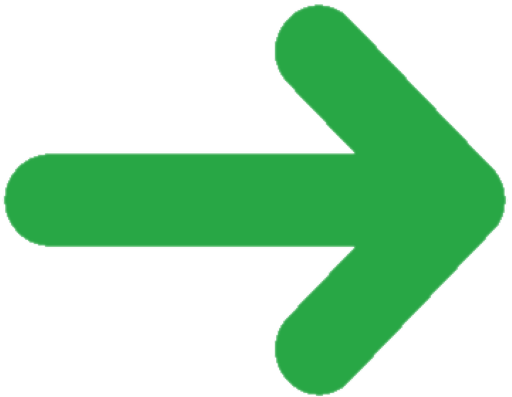
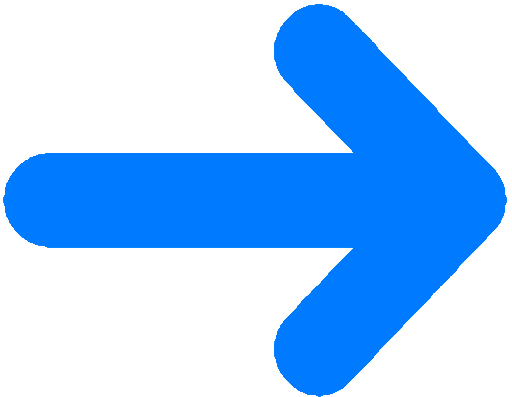
Version-1.5 Ajustes

diff --git a/ferramentas/ferramentas_p-05.html b/ferramentas/ferramentas_p-05.html
@@ -25,14 +25,14 @@
 		<div class="container">
 			<div class="mt-2">
 				<div class="d-flex justify-content-center">
-					<h5 class="text-success">5 / 9</h5>
+					<h5 class="text-primary">5 / 9</h5>
 				</div>
 				<hr class="divisor">
 			</div>
 			<div class="row">
 				<div class="col-md-8 m-auto text-center">
 					<div class="text-center">
-						<h5 class="text-center text-success">Formulários</h5>						
+						<h5 class="text-center text-primary">Formulários</h5>						
 					</div>
 				</div>
 			</div>
@@ -46,9 +46,9 @@
 					  além de tudo, ser cansativos e desgastantes para o funcionário, novo ou antigo, que está
 					   sendo atualizado sobre o novo sistema.</strong></p>
             </div>
-			<div class="border border-success">
+			<div class="border border-primary">
 				<div class="row">
-					<div class="col-md-6 border-right border-success">
+					<div class="col-md-6 border-right border-primary">
 						<h5 class="text-center pt-2">Formulários - Tipos de entrada - Colunado</h5>
 						<hr class="divisor ">
 						<div class="p-1">
@@ -123,7 +123,7 @@
 							</form>
 						</div>
 					</div>
-					<div class="col-md-6 border-success">
+					<div class="col-md-6 border-primary">
 						<h5 class="text-center pt-2">Formulários Inline - Bootstrap</h5>
 						<hr class="divisor">
 						<form>           

diff --git a/ferramentas/ferramentas_p-04.html b/ferramentas/ferramentas_p-04.html
@@ -25,14 +25,14 @@
 		<div class="container">
 			<div class="mt-2">
 				<div class="d-flex justify-content-center">
-					<h5 class="text-success">4 / 9</h5>
+					<h5 class="text-primary">4 / 9</h5>
 				</div>
 				<hr class="divisor">
 			</div>
 			<div class="row">
 				<div class="col-md-8 m-auto text-center">
 					<div class="text-center">
-						<h5 class="text-center text-success">Imagens - Parte 2</h5>						
+						<h5 class="text-center text-primary">Imagens - Parte 2</h5>						
 					</div>
 				</div>
 			</div>
@@ -48,7 +48,7 @@
                        Visualmente falando, fica mais bem organizado e bonito</strong></p>
             </div>
 			<hr class="divisor">
-			<div class="border border-success">				
+			<div class="border border-primary">				
                 <div class="caixa d-flex flex-wrap">
                     <div class="item border border-primary m-1"><img src="../img/fotos/imagem1.jpeg" width="150"></div>
                     <div class="item border border-primary m-1"><img src="../img/fotos/imagem2.jpeg" width="150"></div>

diff --git a/ferramentas/ferramentas_p-09.html b/ferramentas/ferramentas_p-09.html
@@ -72,9 +72,9 @@
 					 fazer com que um design pareça mais emocionante ou imersivo.</p>
 				<div class="row">
 					<div class="col-md-6 m-auto text-center">
-						<a class="text-success bg-light mb-2 p-3 canto" href="ferramentas_p-08.html"><img src="../img/icones/seta_esquerda.png" width="50px"><strong> Anterior </strong></a>
+						<a class="text-primary bg-light mb-2 p-3 canto" href="ferramentas_p-08.html"><img src="../img/icones/seta_esquerda.png" width="50px"><strong> Anterior </strong></a>
 						<br /><br />
-						<a class="text-success bg-light p-3 canto" href="ferramentas_p-00.php"><img src="../img/icones/home.png" width="50px"><strong> Voltar ao início</strong></a>
+						<a class="text-primary bg-light p-3 canto" href="ferramentas_p-00.php"><img src="../img/icones/home.png" width="50px"><strong> Voltar ao início</strong></a>
 					</div>
 				</div>
 			</div>

diff --git a/ferramentas/ferramentas_p-03.html b/ferramentas/ferramentas_p-03.html
@@ -25,14 +25,14 @@
 		<div class="container">
 			<div class="mt-2">
 				<div class="d-flex justify-content-center">
-					<h5 class="text-success">3 / 9</h5>
+					<h5 class="text-primary">3 / 9</h5>
 				</div>
 				<hr class="divisor">
 			</div>
 			<div class="row">
 				<div class="col-md-8 m-auto text-center">
 					<div class="text-center">
-						<h5 class="text-center text-success">Imagens - Parte 1</h5>						
+						<h5 class="text-center text-primary">Imagens - Parte 1</h5>						
 					</div>
 				</div>
 			</div>

diff --git a/ferramentas/ferramentas_p-01.html b/ferramentas/ferramentas_p-01.html
@@ -25,7 +25,7 @@
 		<div class="container">
 			<div class="mt-2">
 				<div class="d-flex justify-content-center">
-					<h5 class="text-success">1 / 9</h5>
+					<h5 class="text-primary">1 / 9</h5>
 				</div>
 				<hr class="divisor">
 			</div>
@@ -35,7 +35,7 @@
 			<div class="row">
 				<div class="col-md-10 m-auto text-center">
 					<div class="text-center">
-						<h5 class="text-center text-success">
+						<h5 class="text-center text-primary">
 							Fontes - tipos
 						</h5>
 						<hr class="divisor">

diff --git a/ferramentas/ferramentas_p-08.html b/ferramentas/ferramentas_p-08.html
@@ -25,14 +25,14 @@
 		<div class="container">
 			<div class="mt-2">
 				<div class="d-flex justify-content-center">
-					<h5 class="text-success">8 / 9</h5>
+					<h5 class="text-primary">8 / 9</h5>
 				</div>
 				<hr class="divisor">
 			</div>
 			<div class="row">
 				<div class="col-md-8 m-auto text-center">
 					<div class="text-center">
-						<h5 class="text-center text-success">Carousel</h5>						
+						<h5 class="text-center text-primary">Carousel</h5>						
 					</div>
 				</div>
 			</div>

diff --git a/ferramentas/ferramentas_p-07.html b/ferramentas/ferramentas_p-07.html
@@ -25,14 +25,14 @@
 		<div class="container">
 			<div class="mt-2">
 				<div class="d-flex justify-content-center">
-					<h5 class="text-success">7 / 9</h5>
+					<h5 class="text-primary">7 / 9</h5>
 				</div>
 				<hr class="divisor">
 			</div>
 			<div class="row">
 				<div class="col-md-8 m-auto text-center">
 					<div class="text-center">
-						<h5 class="text-center text-success">Botões</h5>						
+						<h5 class="text-center text-primary">Botões</h5>						
 					</div>
 				</div>
 			</div>

diff --git a/ferramentas/ferramentas_p-06.html b/ferramentas/ferramentas_p-06.html
@@ -25,14 +25,14 @@
 		<div class="container">
 			<div class="mt-2">
 				<div class="d-flex justify-content-center">
-					<h5 class="text-success">6 / 9</h5>
+					<h5 class="text-primary">6 / 9</h5>
 				</div>
 				<hr class="divisor">
 			</div>
 			<div class="row">
 				<div class="col-md-8 m-auto text-center">
 					<div class="text-center">
-						<h5 class="text-center text-success">Bordas</h5>						
+						<h5 class="text-center text-primary">Bordas</h5>						
 					</div>
 				</div>
 			</div>

diff --git a/ferramentas/ferramentas_p-02.html b/ferramentas/ferramentas_p-02.html
@@ -25,14 +25,14 @@
 		<div class="container">
 			<div class="mt-2">
 				<div class="d-flex justify-content-center">
-					<h5 class="text-success">2 / 9</h5>
+					<h5 class="text-primary">2 / 9</h5>
 				</div>
 				<hr class="divisor">
 			</div>
 			<div class="row">
 				<div class="col-md-8 m-auto text-center">
 					<div class="text-center">
-						<h5 class="text-center text-success">
+						<h5 class="text-center text-primary">
 							Fontes - cores
 						</h5>						
 					</div>

diff --git a/assets/css/style.css b/assets/css/style.css
@@ -147,7 +147,7 @@ p.justificado {
 
 /* line 146, ../../xampp/htdocs/ResolveSystemsOnLine/scss/style.scss */
 hr.divisor {
-  border: 1px dotted green;
+  border: 1px dotted #007bff;
 }
 
 /* line 150, ../../xampp/htdocs/ResolveSystemsOnLine/scss/style.scss */

diff --git a/scss/style.scss b/scss/style.scss
@@ -144,7 +144,7 @@ p.justificado {
 }
 
 hr.divisor {
-    border: 1px dotted green;
+    border: 1px dotted #007bff;
 }
 
 .caixa div {

diff --git a/index.php b/index.php
@@ -195,7 +195,7 @@
 							<div class="carousel-inner"><!-- INNER -->
 								<div class="carousel-item active">
 									<div class="text-center text-dark">
-										<h1 class="text-center text-success">Site estático X Site Dinâmico</h1>
+										<h1 class="text-center text-primary">Site estático X Site Dinâmico</h1>
 										<p class="cor-paragrafo">
 											Entenda o que são e qual o mais adequado para sua
 											organização
@@ -210,7 +210,7 @@
 								</div>
 								<div class="carousel-item">
 									<div class="tarja-background text-center container">
-										<h1 class="text-success text-center pt-1">Site estático X Site Dinâmico</h1>
+										<h1 class="text-primary text-center pt-1">Site estático X Site Dinâmico</h1>
 										<div class="video-menor embed-responsive embed-responsive-4by3 m-auto">
 											<video class="embed-responsive-item" autoplay loop muted>
 												<source src="videos/UrB9.mp4" type="video/mp4">
@@ -241,14 +241,14 @@
 								</div>
 								<div class="carousel-item">
 									<div class="tarja-background text-center container">
-										<h1 class="text-success text-center pt-1">Site estático X Site Dinâmico</h1>
+										<h1 class="text-primary text-center pt-1">Site estático X Site Dinâmico</h1>
 										<div class="video-menor embed-responsive embed-responsive-4by3 m-auto">
 											<video class="embed-responsive-item" autoplay loop muted>
 												<source src="videos/UrB9.mp4" type="video/mp4">
 													Your browser does not support the video tag.
 											</video>
 										</div>
-										<h6 class="text-success text-center pt-5">
+										<h6 class="text-primary text-center pt-5">
 											O que é site estático?
 										</h6>					
 										<p class="cor-paragrafo recuo-primeira-linha justificado pt-1">
@@ -266,14 +266,14 @@
 								</div>					
 								<div class="carousel-item">
 									<div class="tarja-background text-center container">
-										<h1 class="text-success text-center pt-1">Site estático X Site Dinâmico</h1>
+										<h1 class="text-primary text-center pt-1">Site estático X Site Dinâmico</h1>
 										<div class="video-menor embed-responsive embed-responsive-4by3 m-auto">
 											<video class="embed-responsive-item" autoplay loop muted>
 												<source src="videos/UrB9.mp4" type="video/mp4">
 													Your browser does not support the video tag.
 											</video>
 										</div>
-										<h6 class="text-success text-center pt-5">
+										<h6 class="text-primary text-center pt-5">
 											Para quem é indicado um site estático?
 										</h6>					
 										<p class="cor-paragrafo recuo-primeira-linha justificado pt-1">
@@ -295,14 +295,14 @@
 								</div>
 								<div class="carousel-item">
 									<div class="tarja-background text-center container">
-										<h1 class="text-success text-center pt-1">Site estático X Site Dinâmico</h1>
+										<h1 class="text-primary text-center pt-1">Site estático X Site Dinâmico</h1>
 										<div class="video-menor embed-responsive embed-responsive-4by3 m-auto">
 											<video class="embed-responsive-item" autoplay loop muted>
 												<source src="videos/UrB9.mp4" type="video/mp4">
 													Your browser does not support the video tag.
 											</video>
 										</div>
-										<h6 class="text-success text-center pt-5">
+										<h6 class="text-primary text-center pt-5">
 											Quais são as vantagens de um site estático?
 										</h6>					
 										<p class="cor-paragrafo recuo-primeira-linha justificado pt-1">
@@ -316,14 +316,14 @@
 								</div>
 								<div class="carousel-item">
 									<div class="tarja-background text-center container">
-										<h1 class="text-success text-center pt-1">Site estático X Site Dinâmico</h1>
+										<h1 class="text-primary text-center pt-1">Site estático X Site Dinâmico</h1>
 										<div class="video-menor embed-responsive embed-responsive-4by3 m-auto">
 											<video class="embed-responsive-item" autoplay loop muted>
 												<source src="videos/UrB9.mp4" type="video/mp4">
 													Your browser does not support the video tag.
 											</video>
 										</div>
-										<h6 class="text-success text-center pt-1">
+										<h6 class="text-primary text-center pt-1">
 											O que é um site dinâmico?
 										</h6>					
 										<p class="cor-paragrafo recuo-primeira-linha justificado pt-1">
@@ -345,14 +345,14 @@
 								</div>
 								<div class="carousel-item">
 									<div class="tarja-background text-center container">
-										<h1 class="text-success text-center pt-1">Site estático X Site Dinâmico</h1>
+										<h1 class="text-primary text-center pt-1">Site estático X Site Dinâmico</h1>
 										<div class="video-menor embed-responsive embed-responsive-4by3 m-auto">
 											<video class="embed-responsive-item" autoplay loop muted>
 												<source src="videos/UrB9.mp4" type="video/mp4">
 													Your browser does not support the video tag.
 											</video>
 										</div>
-										<h6 class="text-success text-center pt-1">
+										<h6 class="text-primary text-center pt-1">
 											Para quem é indicado um site dinâmico?
 										</h6>					
 										<p class="cor-paragrafo recuo-primeira-linha justificado pt-1">
@@ -373,14 +373,14 @@
 								</div>
 								<div class="carousel-item">
 									<div class="tarja-background text-center container">
-										<h1 class="text-success text-center pt-1">Site estático X Site Dinâmico</h1>
+										<h1 class="text-primary text-center pt-1">Site estático X Site Dinâmico</h1>
 										<div class="video-menor embed-responsive embed-responsive-4by3 m-auto">
 											<video class="embed-responsive-item" autoplay loop muted>
 												<source src="videos/UrB9.mp4" type="video/mp4">
 													Your browser does not support the video tag.
 											</video>
 										</div>
-										<h6 class="text-success text-center pt-1">
+										<h6 class="text-primary text-center pt-1">
 											Quais são as vantagens de um site dinâmico?
 										</h6>					
 										<p class="cor-paragrafo recuo-primeira-linha justificado pt-1">
@@ -401,14 +401,14 @@
 								</div>
 								<div class="carousel-item">
 									<div class="tarja-background text-center container">
-										<h1 class="text-success text-center pt-1">Site estático X Site Dinâmico</h1>
+										<h1 class="text-primary text-center pt-1">Site estático X Site Dinâmico</h1>
 										<div class="video-menor embed-responsive embed-responsive-4by3 m-auto">
 											<video class="embed-responsive-item" autoplay loop muted>
 												<source src="videos/UrB9.mp4" type="video/mp4">
 													Your browser does not support the video tag.
 											</video>
 										</div>
-										<h6 class="text-success text-center pt-1">
+										<h6 class="text-primary text-center pt-1">
 											Site estático ou site dinâmico, qual é o mais
 											eficiente?
 										</h6>					
@@ -425,14 +425,14 @@
 								</div>
 								<div class="carousel-item">
 									<div class="tarja-background text-center container">
-										<h1 class="text-success text-center pt-1">Site estático X Site Dinâmico</h1>
+										<h1 class="text-primary text-center pt-1">Site estático X Site Dinâmico</h1>
 										<div class="video-menor embed-responsive embed-responsive-4by3 m-auto">
 											<video class="embed-responsive-item" autoplay loop muted>
 												<source src="videos/UrB9.mp4" type="video/mp4">
 													Your browser does not support the video tag.
 											</video>
 										</div>
-										<h6 class="text-success text-center pt-1">
+										<h6 class="text-primary text-center pt-1">
 											Logo, a verdadeira resposta para esse questionamento
 											é: depende!
 										</h6>					
